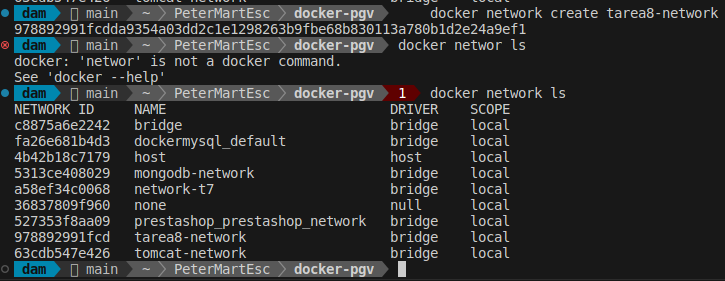
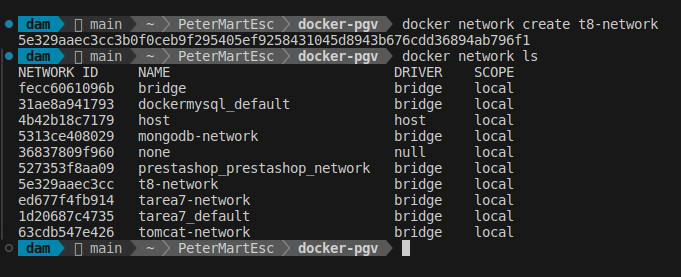
refactor(tarea8): Se modifica el readme para la nueva versión de la tarea

diff --git a/tarea8/README.md b/tarea8/README.md
@@ -4,81 +4,163 @@
 
 ## Objetivo
 
-El objetivo de este ejercicio es crear un entorno con Docker que incluya dos servidores Tomcat, una base de datos MariaDB y una bbdd no sql y así como los clientes para acceder a ambas bases de datos. Para esto, configuraremos los contenedores con redes personalizadas y un volumen común para persistir datos.
-
-## Requisitos
-
-- Crear una red Docker personalizada para los contenedores.
-- Crear un conjunto de contenedores Tomcat para desplegar las aplicaciones web.
-- Crear un contenedor MariaDB para gestionar la base de datos.
-- Crear un contenedor Mongodb para gestionar la base de datos no sql.
-- Utilizar un volumen común para persistir los datos de la base de datos.
+El objetivo de este ejercicio es crear un entorno con Docker que incluya dos servidores `Tomcat`, una base de datos `MariaDB` y una `bbdd no sql` y así como los clientes para acceder a ambas bases de datos. Para esto, configuraremos los contenedores con redes personalizadas y un `volumen común` para persistir datos.
 
 ---
+
+## Docker Compose
+
+Docker Compose es una herramienta que permite definir y ejecutar aplicaciones de Docker de múltiples contenedores. A través de un archivo `YAML` (generalmente llamado `docker-compose.yml`), puedes definir todos los servicios, redes y volúmenes que tu aplicación necesita. Docker Compose facilita la orquestación de contenedores, permitiendo gestionar proyectos más complejos que requieren la interacción de varios contenedores.
+
+## ¿Por qué usar Docker Compose?
+
+En muchos casos, las aplicaciones modernas consisten en varios componentes que se ejecutan en contenedores independientes. Esto puede incluir bases de datos, servidores web, aplicaciones backend, y más. Docker Compose facilita la gestión de estas aplicaciones multicontenedor de manera simple y eficiente. Algunas de las razones para usar Docker Compose son:
+
+- __Orquestación de múltiples contenedores__: Puedes definir, ejecutar y administrar múltiples contenedores a la vez.
+- __Automatización__: Facilita la configuración de servicios y redes entre contenedores, evitando tener que configurar manualmente cada uno de ellos.
+- __Desarrollo local__: Permite a los desarrolladores crear entornos completos de desarrollo local con solo un comando.
+- __Portabilidad__: Puedes definir entornos consistentes que se pueden compartir fácilmente entre diferentes máquinas o equipos de desarrollo.
+
+## Componentes principales de Docker Compose
+
+Docker Compose utiliza un archivo `YAML` donde se definen los siguientes componentes principales:
+
+1. __Version__:
+Define la versión del archivo de configuración de `Docker Compose`. Asegura que se utilicen las características adecuadas de Docker y Docker Compose.
+
+2. __Services__:
+Especifica los contenedores que formarán parte de la aplicación. Cada servicio corresponde a un contenedor y puede incluir configuraciones como:
+
+- Imagen del contenedor.
+- Puertos que deben exponerse.
+- Volúmenes que deben montarse.
+- Variables de entorno necesarias para la configuración del contenedor.
+
+3. __Volumes__:
+Define los volúmenes persistentes que se utilizan para almacenar datos entre reinicios de contenedores. Esto es útil para bases de datos o cualquier servicio que necesite almacenar datos.
+
+4. __Networks__:
+Configura redes personalizadas para que los contenedores puedan comunicarse entre sí. Esto es útil cuando se necesita aislar los contenedores de otros servicios externos.
+
+---
+
+## ¿Cómo funciona Docker Compose?
+
+Docker Compose funciona con los siguientes pasos:
+
+- __Definir la configuración__: Crear un archivo `docker-compose.yml` que describa los contenedores, sus redes y volúmenes necesarios.
+- __Levantar los contenedores__: Usando el comando `docker-compose up`, Docker Compose descargará las imágenes necesarias, creará los contenedores y los levantará según la configuración especificada.
+- __Escalar y gestionar servicios__: Docker Compose permite escalar servicios (por ejemplo, ejecutar múltiples instancias de un contenedor) y gestionar su ciclo de vida, como detener, reiniciar o eliminar contenedores.
+- __Conexión entre servicios__: Los contenedores definidos en Docker Compose pueden interactuar entre sí fácilmente a través de redes configuradas en el archivo `docker-compose.yml`.
+
+## Ejemplo básico de un archivo `docker-compose.yml`
+
+```bash
+version: '3.9'
+
+services:
+  web:
+    image: nginx:latest
+    ports:
+      - "8080:80"
+  db:
+    image: mysql:5.7
+    environment:
+      MYSQL_ROOT_PASSWORD: example
+```
+
+En este ejemplo:
+
+- __Se definen dos servicios__: un contenedor `web` que usa la imagen de `Nginx` y un contenedor `db` que usa la imagen de `MySQL`.
+- __web__: expone el puerto `8080` en la máquina anfitriona para acceder al servidor web.
+- __db__: configura una variable de entorno para establecer la contraseña del usuario root de la base de datos.
+---
+
+## Realiza
+
+- Crear una solución `Docker` personalizada para los contenedores.
+- Crear un conjunto de contenedores `Tomcat` para desplegar las aplicaciones web.
+- Crear un contenedor `MariaDB` para gestionar la base de datos.
+- Crear un contenedor `Mongodb` para gestionar la base de datos no sql.
+- Utilizar un `volumen común` para persistir los datos de la base de datos.
 
 ## Pasos
 
 ### Paso 1: Crea la red personalizada
 
-Primero, creamos una red Docker personalizada para que los contenedores puedan comunicarse entre sí.
+Primero, creamos una red Docker personalizada para que los contenedores puedan comunicarse entre sí. Si no la creásemos, el propio docker compose la crearia al lanzarse.
 
 ```bash
-    docker network create tarea8-network
+    docker network create t8-network
 ```
 
 <img src="./capturas/1.png" alt="captura 1">
 
 ### Paso 2: Crear un volumen común
 
-Luego, creamos un volumen Docker para persistir los datos.
+Luego, creamos un volumen Docker para persistir los datos. De igual forma, si no estuviese creado, el composer instal lo crearía
 
 ```bash
-    docker volume create tarea8-volumen
+    docker volume create t8-volumen
 ```
 
 <img src="./capturas/2.png" alt="captura 2">
 
 ### Paso 3: Crear el Dockerfile
 
-A continuación, creamos un Dockerfile que instalará Tomcat, MariaDB y CloudBeaver.
+A continuación, creamos un Docker Compose que instalará los contenedores Tomcat, MariaDB y CloudBeaver.
 
 ```bash
-# Usar una imagen base de Ubuntu para las instalaciones adicionales
-FROM ubuntu:20.04
+version: '3.3'
+services:
 
-# Instalar dependencias necesarias (como wget y curl)
-RUN apt-get update -y && \
-    apt-get install -y \
-    wget \
-    curl \
-    unzip \
-    mysql-client \
-    && rm -rf /var/lib/apt/lists/*
+  mariadb:
+    image: mariadb:11.1.2
+    container_name: t8-mariadb
+    environment:
+      MYSQL_ROOT_PASSWORD: root
+      MYSQL_DATABASE: exampledb
+    networks:
+      - t8-network
+    ports:
+      - "3306:3306"
+    volumes:
+      - t8-volumen:/var/lib/mysql
 
-# Configurar MariaDB usando la imagen oficial
-FROM mariadb:10.5
+  tomcat:
+    image: tomcat:10.1.9-jdk17
+    container_name: t8-tomcat1
+    networks:
+      - t8-network
+    ports:
+      - "8081:8081"
+    volumes:
+      - ./sample.war:/usr/local/tomcat/webapps/sample.war
 
-# Configurar Tomcat usando la imagen oficial
-FROM tomcat:9.0
+  tomcat:
+    image: tomcat:10.1.9-jdk17
+    container_name: t8-tomcat2
+    networks:
+      - t8-network
+    ports:
+      - "8082:8082"
+    volumes:
+      - ./sample.war:/usr/local/tomcat/webapps/sample.war
 
-# Descargar y configurar CloudBeaver utilizando la imagen oficial de CloudBeaver desde Docker Hub
-FROM dbeaver/cloudbeaver:latest
+  cloudbeaver:
+    image: dbeaver/cloudbeaver:23.3.0
+    container_name: t8-cloudbeaver
+    networks:
+      - t8-network
+    ports:
+      - "8978:8978"
 
-# Exponer puertos
-EXPOSE 8081 8082
+volumes:
+  t8-volumen:
 
-# Volúmenes para MariaDB
-VOLUME /var/lib/mysql
-
-# Configuración de MariaDB: Establecer la contraseña root y crear la base de datos (esto es suficiente con las variables de entorno)
-ENV MYSQL_ROOT_PASSWORD=root
-ENV MYSQL_DATABASE=exampledb
-
-# Iniciar los servicios de MariaDB, Tomcat y CloudBeaver
-CMD service mysql start && \
-    /opt/tomcat/bin/catalina.sh run & \
-    /opt/cloudbeaver/cloudbeaver/bin/cloudbeaver & \
-    wait
+networks:
+  t8-network:
+    driver: bridge
 ```
 
 ### Paso 4: Construir y ejecutar la imagen
